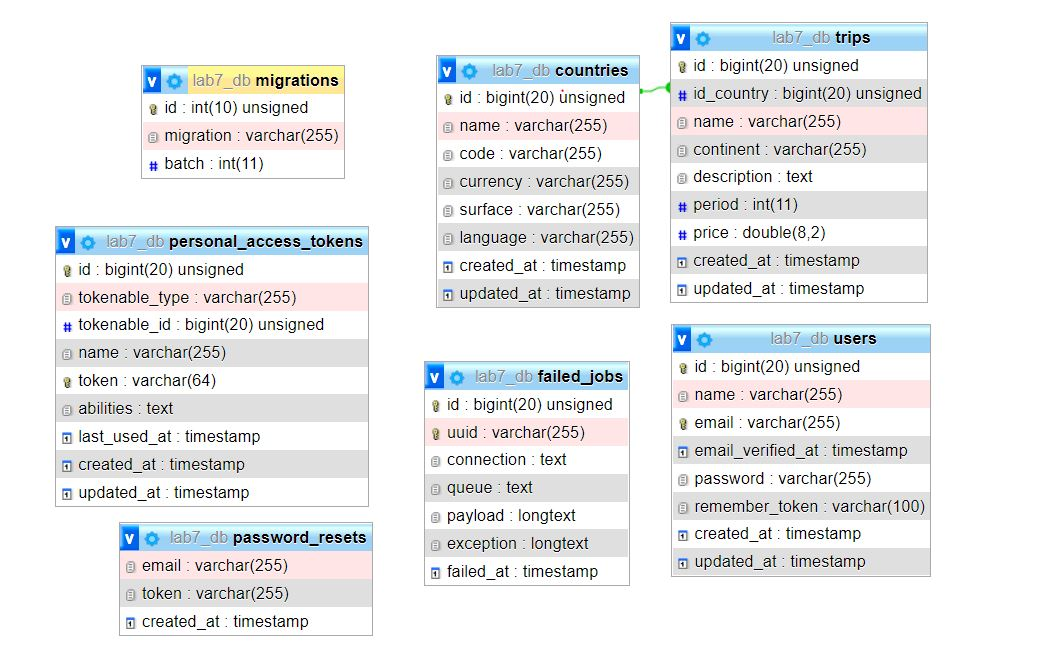
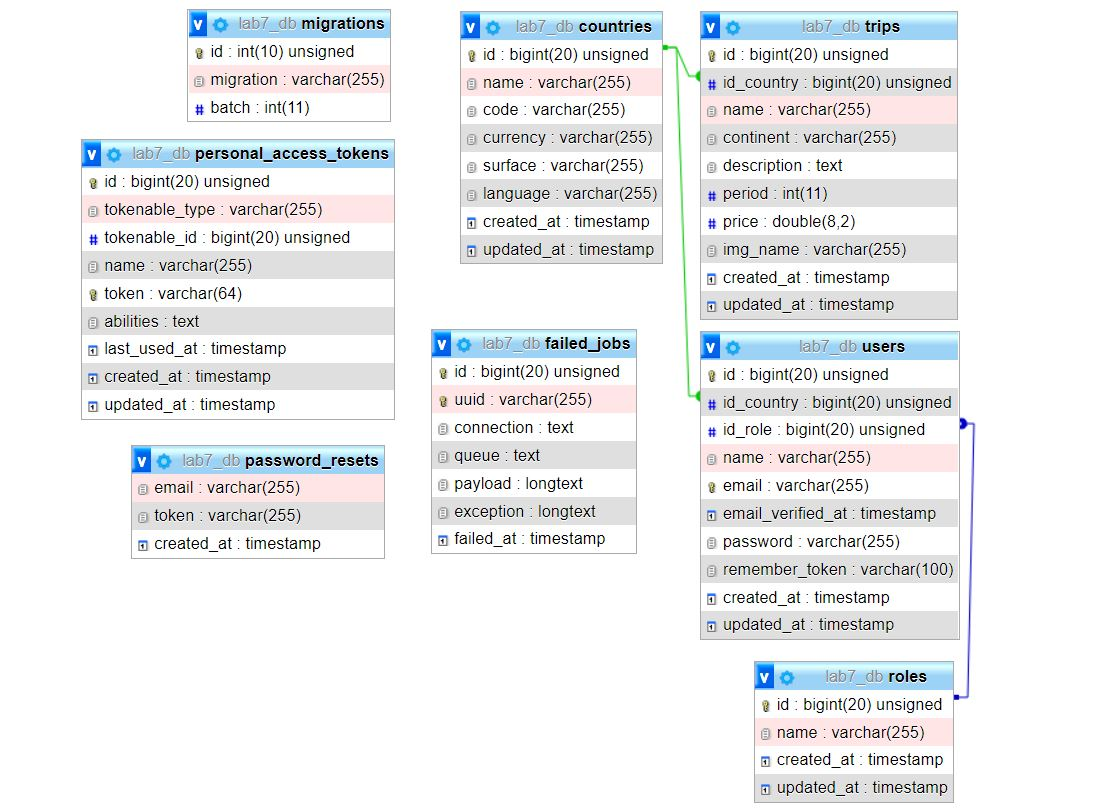
Update README && ERD

diff --git a/README.md b/README.md
@@ -6,16 +6,18 @@
 - lab6 - Init Laravel freamwork && expanding the database of trips
 - lab7 - Adding table and seeder migrations && operations on data from the database
 - lab8 - Adding CRUD to Tours and Countries
+- lab9 - User authorization initialization
 
 ## Technologies
 - [PHP v8.0](https://www.php.net/releases/8.0/en.php)
 - [MySql v5.7](https://www.mysql.com/)
 - [Bootstrap v5.1](https://getbootstrap.com/)
 - [Laravel v9.8](https://laravel.com/)
+- [Laravel ui v3.4](https://laravel.com/docs/6.x/authentication#included-routing)
 
 ## ERD diagram Database
 
-![alt text](https://github.com/PZ-webdev/ai-lab/blob/lab7/project/database/erd.JPG)
+![alt text](https://github.com/PZ-webdev/ai-lab/blob/lab9/project/database/erd.JPG)
 
 ## License
 [MIT](https://choosealicense.com/licenses/mit/)
